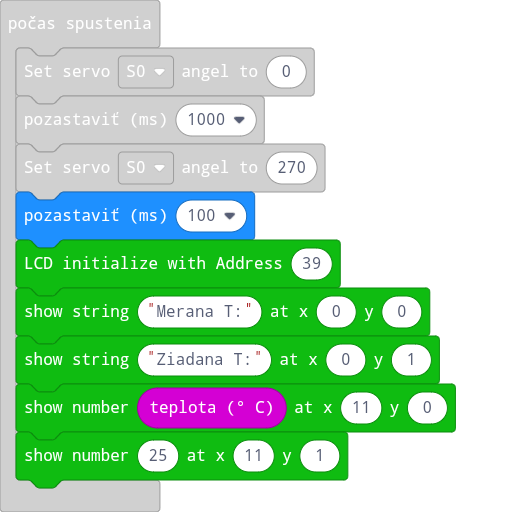
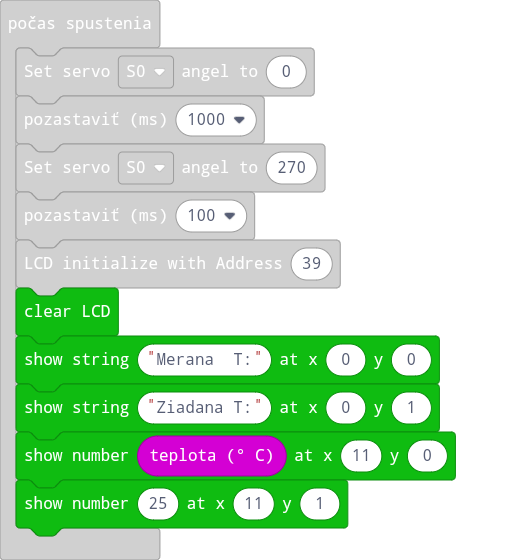
Update main.blocks, main.ts

Changed region(s): [[0.0, 0.0312, 0.9172, 0.9688]]

diff --git a/main.ts b/main.ts
@@ -3,7 +3,8 @@ basic.pause(1000)
 wuKong.setServoAngel(wuKong.ServoList.S0, 270)
 basic.pause(100)
 I2C_LCD1602.LcdInit(39)
-I2C_LCD1602.ShowString("Merana T:", 0, 0)
+I2C_LCD1602.clear()
+I2C_LCD1602.ShowString("Merana  T:", 0, 0)
 I2C_LCD1602.ShowString("Ziadana T:", 0, 1)
 I2C_LCD1602.ShowNumber(input.temperature(), 11, 0)
 I2C_LCD1602.ShowNumber(25, 11, 1)
